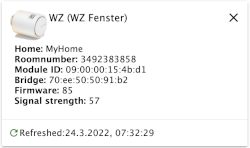
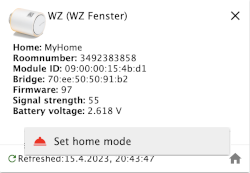
Bug fix of translations & admin tab

Changed region(s): [[0.028, 0.027, 0.588, 0.7297], [0.0, 0.7568, 1.0, 1.0], [0.896, 0.0541, 0.98, 0.1622]]

diff --git a/admin/words.js b/admin/words.js
@@ -259,6 +259,7 @@ const _systemDictionary = {
 	"Token saved": { 																"en": "Token saved", 																"de": "Token gespeichert", 																		"ru": "Токен сохранен", 																	"pt": "Token salvo", 																			"nl": "Token", 																			"fr": "Token sauvé", 																							"it": "Token salvato", 																					"es": "Token salvado", 																				"pl": "Uratować", 																							"uk": "Збережений токен", 															"zh-cn": "幸免" },
 	"Bridge": { 																	"en": "Bridge", 																	"de": "Brücke", 																				"ru": "Мост", 																				"pt": "Ponte", 																					"nl": "Bridge", 																		"fr": "Bridge", 																								"it": "Ponte", 																							"es": "Puente", 																					"pl": "Most", 																								"uk": "Міста", 																		"zh-cn": "B. 桥梁" },
 	"More details": { 																"en": "More details", 																"de": "Mehr Details", 																			"ru": "Подробнее", 																			"pt": "Mais detalhes", 																			"nl": "Meer details", 																	"fr": "Plus de détails", 																						"it": "Maggiori dettagli", 																				"es": "Más detalles", 																				"pl": "Szczegóły", 																							"uk": "Детальніше", 																"zh-cn": "详情" },
+	"Set home mode": { 																"en": "Set home mode", 																"de": "Home-Modus einstellen", 																	"ru": "Установите домашний режим", 															"pt": "Definir modo de casa", 																	"nl": "Zet thuis modus", 																"fr": "Mode home", 																								"it": "Impostare la modalità home", 																	"es": "Modo de inicio", 																			"pl": "Tryb domowy", 																						"uk": "Налаштування домашнього режиму", 											"zh-cn": "建 议" },
 };
 // @ts-ignore
 if (typeof module !== 'undefined' && module.parent) {

diff --git a/main.js b/main.js
@@ -2069,6 +2069,7 @@ class NetatmoEnergy extends utils.Adapter {
 									let myActiveSchedule_local	= myActiveSchedule;
 									let myActiveModes_local		= myActiveModes;
 									let myActiveThermMode_local	= myActiveThermMode;
+									const myMode_Home_Text 		= mytools.tl('Set home mode', that.systemLang);
 
 									if (myModule.type != glob.APIRequest_homesdata_NAPTherm1) {
 										schedule_programs_local = null;
@@ -2083,6 +2084,7 @@ class NetatmoEnergy extends utils.Adapter {
 										{Set_Temp: Set_Temp},
 										{Set_Mode: Set_Mode},
 										{Set_Mode_Home: Set_Mode_Home },
+										{Set_Mode_Home_Text: myMode_Home_Text },
 										{ModuleName_ID: myModule.ModuleName_ID},
 										{schedule_programs: schedule_programs_local},
 										{active_schedule: myActiveSchedule_local},
@@ -2122,6 +2124,7 @@ class NetatmoEnergy extends utils.Adapter {
 									{Set_Temp: null},
 									{Set_Mode: null},
 									{ Set_Mode_Home: null },
+									{ Set_Mode_Home_Text: null },
 									{ModuleName_ID: myModules[myModule].ModuleName_ID},
 									{schedule_programs: null},
 									{active_schedule: null},

diff --git a/admin/tab_m.html b/admin/tab_m.html
@@ -422,8 +422,9 @@
                     let sub_menus_modes             = '';
                     if (valve.type == 'NRV' && temp_mode != 'schedule') {
                         setMode_Home                = valve.Set_Mode_Home;
+                        let setMode_Home_Text       = valve.Set_Mode_Home_Text;
                         if (setMode_Home) {
-                            sub_menus_modes = sub_menus_modes + `<li><a href="#!" class="black-text text-darken-3 start-api-request-home-mode" data-api-request="${setMode_Home}"><i class="material-icons icon-orange translateT">room_service</i>Set to home mode</a></li>`;
+                            sub_menus_modes = sub_menus_modes + `<li><a href="#!" class="black-text text-darken-3 start-api-request-home-mode" data-api-request="${setMode_Home}"><i class="material-icons icon-red">room_service</i>${setMode_Home_Text}</a></li>`;
                         }
                     }
                     

diff --git a/admin/style.css b/admin/style.css
@@ -137,7 +137,7 @@ body > div:nth-child(2) {
 	margin: 0 -10px -10px -10px;
 }
 .m .valve .card.dcard .card-reveal .dropdown-content {
-	min-width: 220px;
+	min-width: 320px;
 }
 .m .valve .card.dcard .card-reveal .dropdown-content li {
 	min-height: 0;

diff --git a/README.md b/README.md
@@ -37,6 +37,10 @@ Mittels der Netatmo-Energy API werden die aktuellen Einstellungen abgeholt bzw. 
     Placeholder for the next version (at the beginning of the line):
     ### **WORK IN PROGRESS**
 -->
+### 2.5.8 (2023-04-16)
+
+* (ioKlausi) Bug fix of translations
+
 ### 2.5.7 (2023-04-16)
 
 * (ioKlausi) Bug fix of sensor actions
